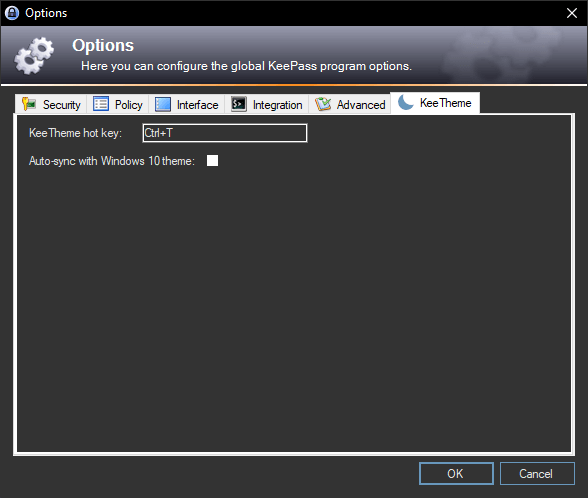
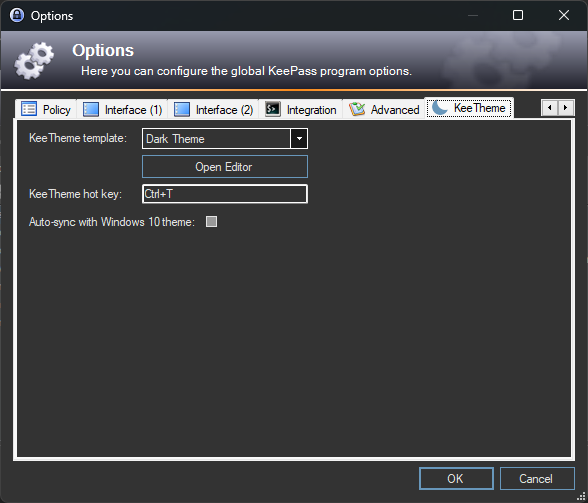
Update documentation

diff --git a/README.md b/README.md
@@ -13,14 +13,18 @@ You can enable it using hotkey `CTRL+T` or using the menu `Tools -> DarkTheme`.
 ### Options
 
 In [options](docs/KeePassDarkThemeCustomOptions.png) `Tools -> Options... -> KeeTheme` you can:
+* Select a theme
+* Create your own theme
 * Change the default hotkey
 * Auto-sync with Windows 10 theme
 
 ### Customizations
 
-The plugin allows you to create your own theme.
+You can use built-in theme editor to create your own theme.
+Custom themes should be saved in the plugins folder.
 
-Just download [theme template](themes/KeeTheme.ini) and put it in the plugins folder.
+![Theme editor](docs/KeePassDarkThemeEditor.png)
+
 
 ### Installation
 
@@ -37,9 +41,18 @@ KeePass was created using standard Windows controls, which unfortunately were no
 Therefore the plugin is not perfect and will never be, but is good enough to use it.
 
 ### Screenshots
+#### DarkTheme
 
 ![Main form](docs/KeePassDarkTheme.png)
 
 ![Open database](docs/KeePassDarkThemeOpenDatabase.png)
 
 ![Options](docs/KeePassDarkThemeOptions.png)
+
+#### DarkThemeWin11
+
+![Main form](docs/KeePassDarkThemeWin11.png)
+
+![Open database](docs/KeePassDarkThemeWin11OpenDatabase.png)
+
+![Options](docs/KeePassDarkThemeWin11Options.png)
